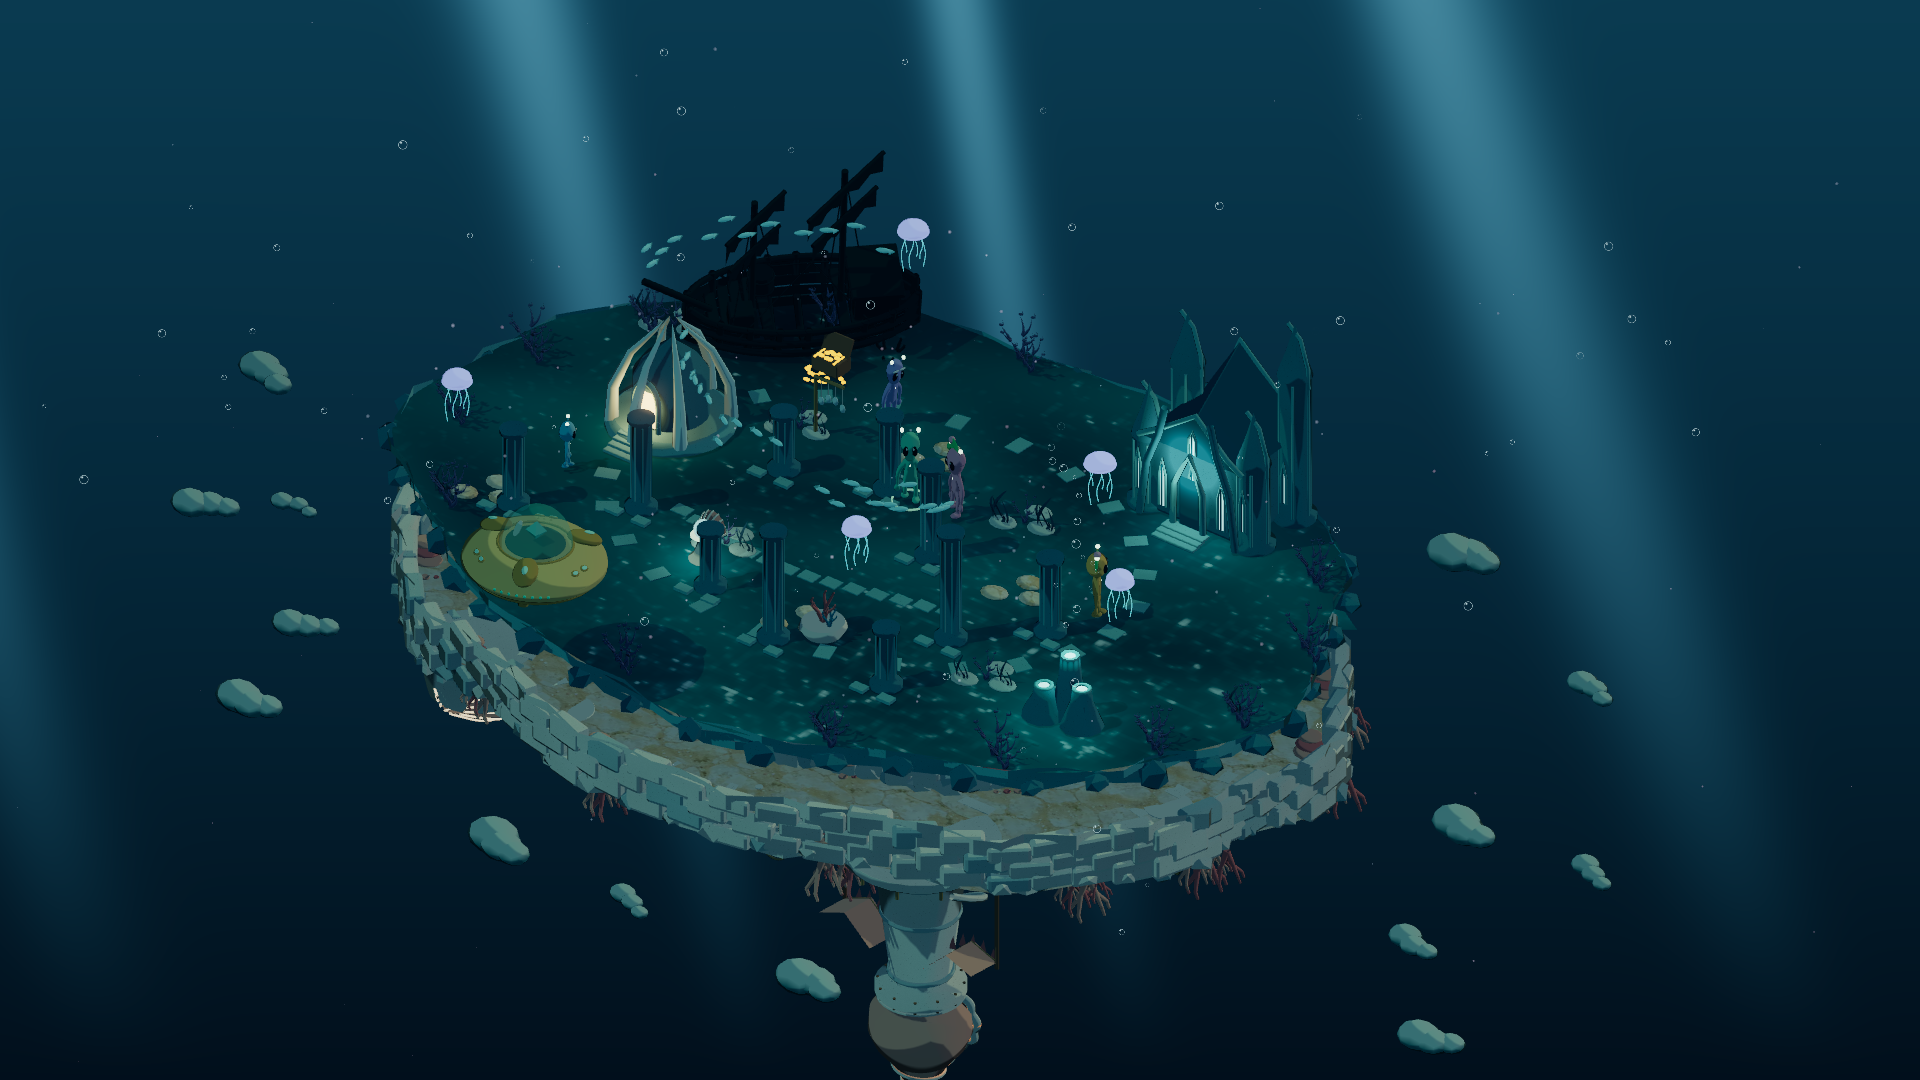
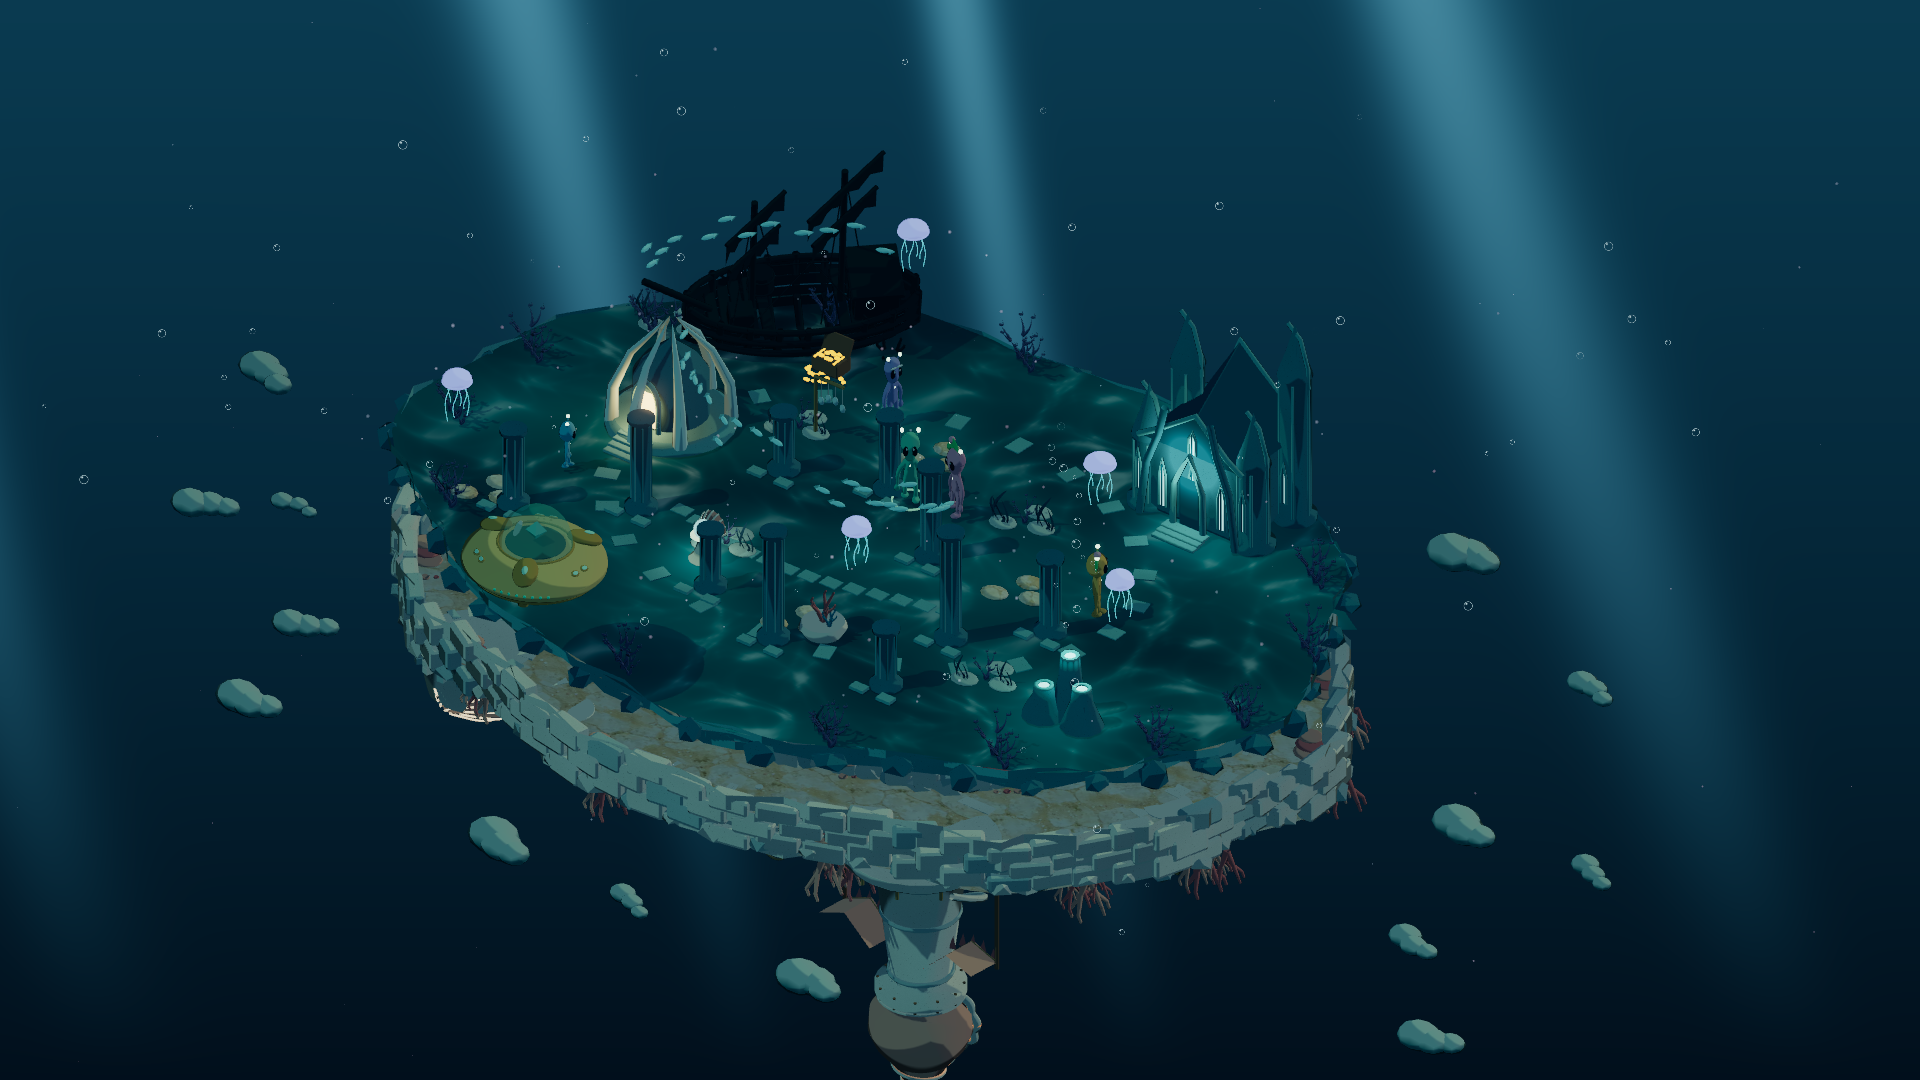
更新水效果

diff --git a/src/ocean.js b/src/ocean.js
@@ -9,25 +9,23 @@ const vertexShader=`varying vec2 p;void main(){p=uv;gl_Position=projectionMatrix
 const causticsGLSL=`
  float oceanCaustic(sampler2D causticsMap,vec2 q){return texture2D(causticsMap,q/vec2(36.,26.)+.5).r;}`;
 const causticsPassVertex=`varying vec2 vUv;void main(){vUv=uv;gl_Position=vec4(position.xy,0.,1.);}`;
+// Adapted from Dave Hoskins / joltz0r, Tileable Water Caustic.
+// https://www.shadertoy.com/view/MdlXz8 - CC BY-NC-SA 3.0.
 const causticsPassFragment=`precision highp float;varying vec2 vUv;uniform float time;
- #define MOD3 vec3(443.8975,397.2973,491.1871)
- vec3 hash33(vec3 p3){p3=fract(p3*MOD3);p3+=dot(p3,p3.yxz+19.19);return -1.+2.*fract(vec3((p3.x+p3.y)*p3.z,(p3.x+p3.z)*p3.y,(p3.y+p3.z)*p3.x));}
- float perlinNoise(vec3 p){
-  vec3 pi=floor(p),pf=p-pi,w=pf*pf*(3.-2.*pf);
-  return mix(mix(mix(dot(pf,hash33(pi)),dot(pf-vec3(1,0,0),hash33(pi+vec3(1,0,0))),w.x),mix(dot(pf-vec3(0,0,1),hash33(pi+vec3(0,0,1))),dot(pf-vec3(1,0,1),hash33(pi+vec3(1,0,1))),w.x),w.z),mix(mix(dot(pf-vec3(0,1,0),hash33(pi+vec3(0,1,0))),dot(pf-vec3(1,1,0),hash33(pi+vec3(1,1,0))),w.x),mix(dot(pf-vec3(0,1,1),hash33(pi+vec3(0,1,1))),dot(pf-vec3(1,1,1),hash33(pi+vec3(1,1,1))),w.x),w.z),w.y);
- }
- float waterNoise(vec3 p){return perlinNoise(p*2.);}
  void main(){
-  vec2 world=(vUv-.5)*vec2(36.,26.);float bottomY=-5.5;vec3 bottomPoint=vec3(world.x,bottomY,world.y),light=vec3(10.,10.,10.);
-  vec3 ray=normalize(bottomPoint-light);float waterHit=(1.-light.y)/min(ray.y,-.03);vec3 waterSurface=light+ray*waterHit;
-  vec3 noisePos=waterSurface+vec3(0.,time*1.3,0.);float e=.5;
-  float h1=waterNoise(noisePos+vec3(e,0,0)),h2=waterNoise(noisePos-vec3(e,0,0)),h3=waterNoise(noisePos+vec3(0,0,e)),h4=waterNoise(noisePos-vec3(0,0,e));
-  float height=waterNoise(noisePos);vec3 waterNormal=normalize(vec3(h2-h1,2.*e,h4-h3));
-  vec3 flatRay=refract(ray,vec3(0,1,0),1./1.333),refracted=refract(ray,waterNormal,1./1.333);vec3 deformedSurface=waterSurface+vec3(0,height,0);
-  float beforeHit=(bottomY-waterSurface.y)/min(flatRay.y,-.03),afterHit=(bottomY-deformedSurface.y)/min(refracted.y,-.03);
-  vec3 beforePos=waterSurface+flatRay*beforeHit,afterPos=deformedSurface+refracted*afterHit;
-  float beforeArea=length(dFdx(beforePos.xz))*length(dFdy(beforePos.xz));float afterArea=max(length(dFdx(afterPos.xz))*length(dFdy(afterPos.xz)),1e-5);
-  float caustic=clamp(beforeArea/afterArea,.001,6.);gl_FragColor=vec4(vec3(caustic),1.);
+  vec2 p=(vUv-.5)*vec2(1.384615,1.)*18.84955592154-250.;
+  vec2 i=p;float c=1.;float clock=time*.35+23.;
+  for(int n=0;n<5;n++){
+   float t=clock*(1.-3.5/float(n+1));
+   i=p+vec2(cos(t-i.x)+sin(t+i.y),sin(t-i.y)+cos(t+i.x));
+   vec2 wave=vec2(sin(i.x+t),cos(i.y+t));
+   // Algebraic reciprocal length avoids division by zero at sine crossings.
+   vec2 crossed=p*wave.yx;
+   c+=abs(wave.x*wave.y)/(.005*max(length(crossed),.00001));
+  }
+  c=1.2-pow(c/5.,1.2);
+  float focus=clamp(pow(abs(c),6.),0.,1.);
+  gl_FragColor=vec4(vec3(focus),1.);
  }`;
 
 export function createOceanCaustics(renderer,{size=384,hz=30}={}){
@@ -50,7 +48,7 @@ export function createOceanWater(side,causticsTexture=null){
    float radius=length(shape),angle=atan(shape.y,shape.x);
    float bend=.055*sin(radius*21.)+.028*sin(radius*43.);
    if(outline>.5&&deep<.5&&radius>.60&&!(angle>.78+bend&&angle<1.38+bend))discard;
-   float caustic=oceanCaustic(causticsMap,local*vec2(.9,1.05));float energy=min(pow(max(caustic-.12,0.),.8)*.38,1.6);float hot=smoothstep(.16,.95,energy);vec3 causticTint=mix(vec3(.12,.55,.50),vec3(.98,1.,.92),hot);
+   float caustic=oceanCaustic(causticsMap,local*vec2(.9,1.05));float energy=smoothstep(.06,.85,caustic);float hot=smoothstep(.16,.95,energy);vec3 causticTint=mix(vec3(.12,.55,.50),vec3(.98,1.,.92),hot);
    vec2 basinPoint=local+vec2(sin(local.y*.42)*.8,cos(local.x*.36)*.55);
    float basin=length(basinPoint/mix(vec2(8.65,6.16),vec2(14.6,10.4),deep));
    float radialDepth=1.-smoothstep(.08,1.02,basin);
@@ -62,7 +60,7 @@ export function createOceanWater(side,causticsTexture=null){
    vec3 base=mix(shallows,depths,smoothstep(.0,1.15,depth));
    float clearChannel=exp(-pow((local.x-1.)/5.,2.)-pow((local.y-2.)/5.5,2.))*(1.-deep);
    base=mix(base,vec3(.24,.78,.72),clearChannel*.75);
-   vec3 color=base+causticTint*energy*mix(.48,.30,deep)*(1.-depth*.55);
+   vec3 color=base+causticTint*energy*.10*(1.-depth*.55);
    float ripple=pow(.5+.5*sin(basin*70.-time*.7+sin(angle*7.)*.5),24.)*smoothstep(.7,1.,basin)*(1.-smoothstep(1.,1.06,basin));
    color+=ripple*vec3(.055,.12,.10);
    gl_FragColor=vec4(color,mix(.12,.42,deep)+depth*mix(.17,.28,deep)+min(energy,.8)*.025);
@@ -235,7 +233,7 @@ function submergedSurface(material,time,causticsTexture){
    float channel=exp(-pow((q.x-.5)/5.,2.)-pow((q.y-2.)/5.,2.));
    vec3 bedColor=mix(vec3(.035,.21,.23),vec3(.14,.41,.35),sandbar);
    diffuseColor.rgb=mix(bedColor,vec3(.12,.65,.57),smoothstep(.12,.85,channel)*(.85+.15*sandbar));`:''}
-   float oceanFocus=oceanCaustic(causticsMap,q*vec2(.9,1.05));float oceanEnergy=min(pow(max(oceanFocus-.12,0.),.8)*.38,1.6);float oceanHot=smoothstep(.16,.95,oceanEnergy);vec3 oceanTint=mix(vec3(.10,.52,.48),vec3(.98,1.,.90),oceanHot);diffuseColor.rgb+=oceanTint*oceanEnergy*${abyss?'.32':'.52'};
+   float oceanFocus=oceanCaustic(causticsMap,q*vec2(.9,1.05));float oceanEnergy=smoothstep(.06,.85,oceanFocus);float oceanHot=smoothstep(.16,.95,oceanEnergy);vec3 oceanTint=mix(vec3(.10,.52,.48),vec3(.98,1.,.90),oceanHot);diffuseColor.rgb+=oceanTint*oceanEnergy*${abyss?'.32':'.52'};
   `);
  };material.customProgramCacheKey=()=>`ocean-submerged-caustics-v2-${bed}-${abyss}`;
 }

diff --git a/tests/ocean-render.test.js b/tests/ocean-render.test.js
@@ -19,13 +19,13 @@ test('front outlet has no isolated waterfall panel',()=>{
  const water=createOceanWater('front');
  assert.ok(!water.root.children.some(o=>o.geometry?.parameters.height===1.6));water.dispose();
 });
-test('dynamic ocean caustics keep the refractive area-ratio core and update at 30 Hz',()=>{
+test('dynamic ocean caustics use bounded turbulence in the shared 30 Hz pass',()=>{
  let renders=0,current=null;const renderer={getRenderTarget:()=>current,setRenderTarget:value=>{current=value;},render:()=>{renders++;}};
  const caustics=createOceanCaustics(renderer,{size:384,hz:30});
  assert.equal(caustics.target.width,384);assert.equal(caustics.target.height,384);assert.equal(caustics.texture.isTexture,true);
  const shader=caustics.material.fragmentShader;
- assert.match(shader,/refract\(/);assert.match(shader,/dFdx/);assert.match(shader,/dFdy/);assert.doesNotMatch(shader,/for\s*\(/);
- assert.match(shader,/time\*1\.3/);assert.match(shader,/float e=\.5/);assert.match(shader,/light=vec3\(10\.,10\.,10\.\)/);
+ assert.match(shader,/n<5/);assert.match(shader,/sin\(/);assert.match(shader,/cos\(/);
+ assert.doesNotMatch(shader,/perlinNoise|refract\(|dFdx|dFdy/);
  caustics.update(0,true);assert.equal(renders,1);caustics.update(.01,true);assert.equal(renders,1);caustics.update(.04,true);assert.equal(renders,2);caustics.update(.08,false);assert.equal(renders,2);
  caustics.dispose();
 });

diff --git a/README.md b/README.md
@@ -13,8 +13,8 @@
 </p>
 
 <p align="center">
-  <img src="docs/images/island-03-front.png" alt="Coral Shallows front with shell houses, a lighthouse, and a central mermaid" width="49%">
-  <img src="docs/images/island-03-back.png" alt="Coral Shallows back with an underwater palace, a shipwreck, and glowing jellyfish" width="49%">
+  <img src="docs/images/island-03-front.png" alt="Coral Shallows front with shell houses, a lighthouse, a central mermaid, and flowing water caustics" width="49%">
+  <img src="docs/images/island-03-back.png" alt="Coral Shallows back with an underwater palace, a shipwreck, glowing jellyfish, and seabed caustics" width="49%">
 </p>
 
 **English** · [中文](README.zh-CN.md)

diff --git a/README.zh-CN.md b/README.zh-CN.md
@@ -13,8 +13,8 @@
 </p>
 
 <p align="center">
-  <img src="docs/images/island-03-front.png" alt="珊瑚浅湾正面：贝壳屋、灯塔与中央美人鱼" width="49%">
-  <img src="docs/images/island-03-back.png" alt="珊瑚浅湾背面：海底宫殿、沉船与发光水母" width="49%">
+  <img src="docs/images/island-03-front.png" alt="珊瑚浅湾正面：贝壳屋、灯塔、中央美人鱼与流动水光" width="49%">
+  <img src="docs/images/island-03-back.png" alt="珊瑚浅湾背面：海底宫殿、沉船、发光水母与海床焦散" width="49%">
 </p>
 
 **中文** · [English](README.md)
